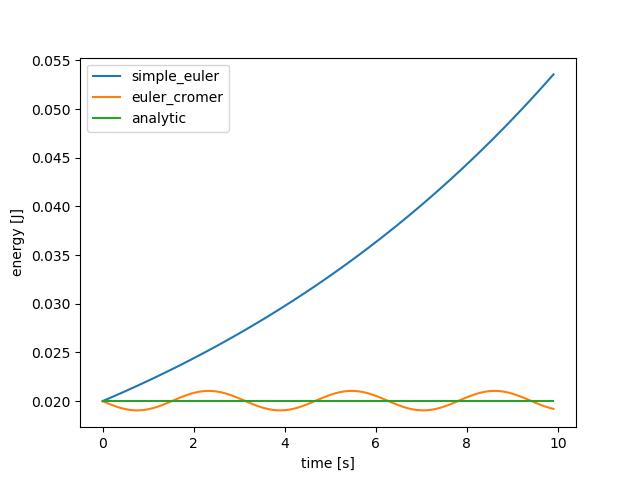
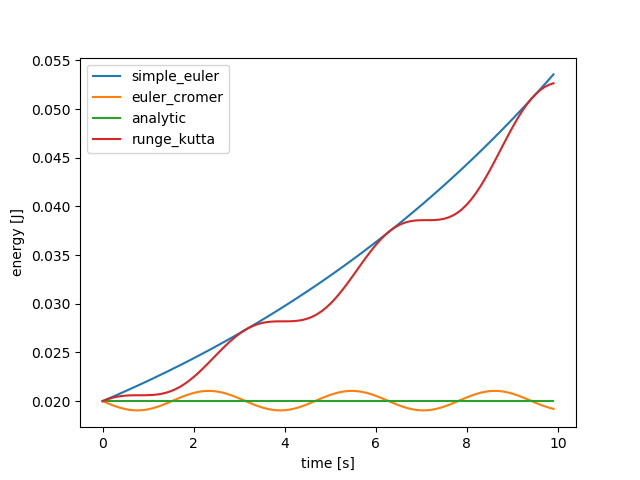
Version 1.5
Added runge kutta solver to solvers.py. Added title attribute to Plot class.

diff --git a/solvers.py b/solvers.py
@@ -4,7 +4,8 @@ g = 1
 l = 1
 m = 1
 
-def analytic(theta0, omega0, step=0.1, stop=10):
+
+def analytic(theta0, omega0, step=0.1, stop=10, name="analytic"):
     """
     :param theta0: initial value for theta
     :param omega0: initial value for omega
@@ -18,9 +19,10 @@ def analytic(theta0, omega0, step=0.1, stop=10):
     theta = theta0*np.sin(O*t + phi)
     omega = theta0*O*np.cos(O*t + phi)
     e = 0.5 * m * l * l * (omega ** 2 + (g / l) * theta ** 2)
-    return Solution(t, theta, omega, e, name="analytic")
+    return Solution(t, theta, omega, e, name=name)
 
-def simple_euler(theta0, omega0, step=0.1, stop=10, start=0):
+
+def simple_euler(theta0, omega0, step=0.1, stop=10, start=0, name="simple_euler"):
     """
     :param theta0: initial value for theta
     :param omega0: initial value for omega
@@ -39,10 +41,10 @@ def simple_euler(theta0, omega0, step=0.1, stop=10, start=0):
         theta[i + 1] = theta[i] + omega[i]*step
 
     e = 0.5*m*l*l*(omega**2 + (g/l)*theta**2)
-    return Solution(t, theta, omega, e, name="simple_euler")
+    return Solution(t, theta, omega, e, name=name)
 
 
-def euler_cromer(theta0, omega0, step=0.1, stop=10, start=0):
+def euler_cromer(theta0, omega0, step=0.1, stop=10, start=0, name="euler_cromer"):
     """
     :param theta0: initial value for theta
     :param omega0: initial value for omega
@@ -60,8 +62,41 @@ def euler_cromer(theta0, omega0, step=0.1, stop=10, start=0):
         omega[i + 1] = omega[i] - (g/l)*theta[i]*step
         theta[i + 1] = theta[i] + omega[i+1]*step
     e = 0.5*m*l*l*(omega**2 + (g/l)*theta**2)
-    return Solution(t, theta, omega, e, name="euler_cromer")
+    return Solution(t, theta, omega, e, name=name)
 
 
-def runge_kutta(theta0, omega0, step=0.1, stop=10, start=0):
-    pass
+def rk4(theta0, omega0, step=0.1, stop=10, start=0, name="runge_kutta"):
+    def omega_prime(theta):
+        """
+        :return: derivative of omega with respect to time at some point theta
+        """
+        return -(g / l) * theta
+
+    def theta_prime(omega):
+        """
+        :return: derivative of theta with respect to time at some point omega
+        """
+        return omega
+    t = np.arange(start, stop, step)
+    n = int((stop - start)/step)
+    omega = np.zeros(n)
+    theta = np.zeros(n)
+    omega[0], theta[0] = omega0, theta0
+    for i in range(n-1):
+        # calculate next omega
+        o1 = omega_prime(theta[i])
+        o2 = omega_prime(theta[i] + o1 * step / 2)
+        o3 = omega_prime(theta[i] + o2 * step / 2)
+        o4 = omega_prime(theta[i] + o3 * step)
+        omega[i + 1] = omega[i] + (step/6)*(o1 + 2*o2 + 2*o3 + o4)
+
+        # calculate next theta
+        t1 = theta_prime(omega[i])
+        t2 = theta_prime(omega[i] + t1 * step / 2)
+        t3 = theta_prime(omega[i] + t2 * step / 2)
+        t4 = theta_prime(omega[i] + t3 * step)
+        theta[i + 1] = theta[i] + (step/6)*(t1 + 2 * t2 + 2 * t3 + t4)
+
+    # calculate energy
+    e = 0.5*m*l*l*(omega**2 + (g/l)*theta**2)
+    return Solution(t, theta, omega, e, name=name)

diff --git a/main.py b/main.py
@@ -9,8 +9,15 @@ STEP = 0.1
 _simple_euler = simple_euler(THETA0, OMEGA0, step=STEP)
 _euler_cromer = euler_cromer(THETA0, OMEGA0, step=STEP)
 _analytic = analytic(THETA0, OMEGA0, step=STEP)
+_runge_kutta = rk4(THETA0, OMEGA0, step=STEP)
 
-plot = Plot(_simple_euler) + Plot(_euler_cromer) + Plot(_analytic)
+plot = Plot(_simple_euler) + Plot(_euler_cromer) + Plot(_analytic) + Plot(_runge_kutta)
 plot.plot_t_theta()
 plot.plot_t_energy()
 plot.plot_theta_omega()
+
+_1 = simple_euler(THETA0, OMEGA0, step=0.5, name="STEP=0.5")
+_2 = simple_euler(THETA0, OMEGA0, step=0.1, name="STEP=0.1")
+_3 = simple_euler(THETA0, OMEGA0, step=0.05, name="STEP=0.05")
+plot2 = Plot(_1) + Plot(_2) + Plot(_3)
+plot2.plot_theta_omega()

diff --git a/Plot.py b/Plot.py
@@ -5,6 +5,7 @@ import os
 class Plot:
     def __init__(self, element=None):
         self.data = []
+        self.title = ""
         if element:
             self.add(element)
 
